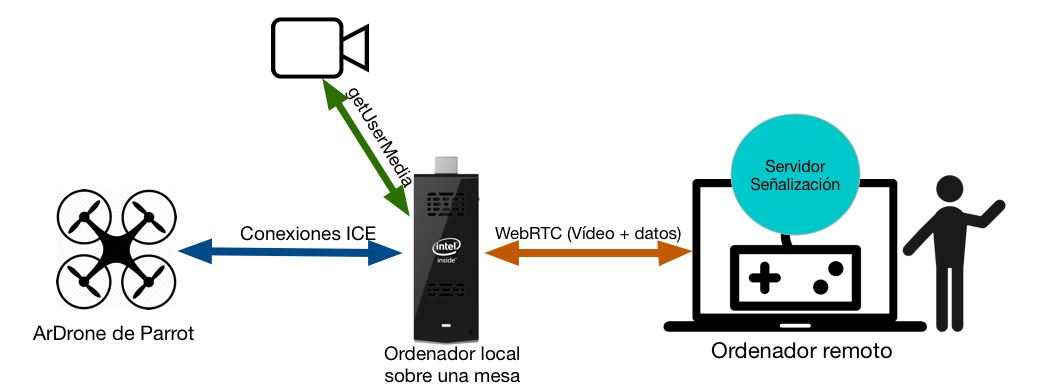
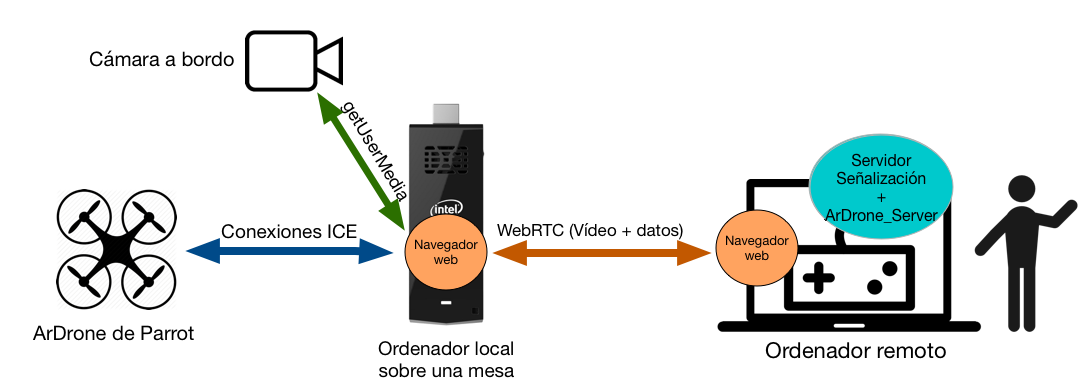
Update

Changed region(s): [[0.0308, 0.0308, 1.0, 0.9846], [0.6769, 0.8308, 0.8923, 0.9231], [0.0308, 0.8308, 0.1846, 0.8923]]

diff --git a/Memoria/5-experimentos.tex b/Memoria/5-experimentos.tex
@@ -9,22 +9,23 @@ Una vez desarrollado el proyecto y satisfaciendo todos los objetivos marcados se
 \begin{figure}[h!]
 \centering
 \includegraphics[width=0.9\textwidth]{experimento1}
-\caption{Esquema del experimento con el simulador gazebo.}
+\caption{Experimento con el simulador Gazebo y un ordenador remoto.}
 \label{fig:esquemaexperimento1}
 \end{figure}
 
-Para realizar este experimento asemejándose de la manera más realista al experimento final con el drone real se ha utilizado un \emph{Intel Compute Stick}\footnote{\url{http://www.intel.com/content/www/us/en/compute-stick/compute-stick-product-brief.html}} como par local, encargado de conectarse a las interfaces ICE que nos proporciona el plugin ArDrone desarrollado por JdeRobot para el simulador Gazebo. Este ordenador está compuesto por un procesador Intel Atom que corre Ubuntu 14.04 LTS como sistema operativo. El simulador Gazebo se ha ejecutado en un portátil auxiliar y utilizaremos otro equipo portátil como par remoto desde el que teleoperaremos el drone además de ejecutar el servidor de señalización. La figura \ref{fig:esquemaexperimento1} muestra el esquema del montaje de este experimento. \\
+Para realizar este experimento de la manera más realista al experimento final con el drone real se ha utilizado un \emph{Intel Compute Stick}\footnote{\url{http://www.intel.com/content/www/us/en/compute-stick/compute-stick-product-brief.html}} como par local. El navegador en ese \emph{computer stick} es el encargado de conectarse a las interfaces ICE que nos proporciona el plugin ArDrone desarrollado por JdeRobot para el simulador Gazebo. Este ordenador está compuesto por un procesador Intel Atom que corre Ubuntu 14.04 LTS como sistema operativo. El simulador Gazebo se ha ejecutado en un portátil auxiliar y utilizaremos otro equipo portátil como par remoto desde el que teleoperaremos el drone además de ejecutar el servidor de señalización. La figura \ref{fig:esquemaexperimento1} muestra el esquema del montaje de este experimento. \\
 
-Los resultados de este experimento han sido muy positivos, el control y manejo del drone ha sido de manera fluida y sin realizar ningún tipo de movimiento extraño producido por algún tipo de mal-funcionamiento del código. El manejo se ha realizado tanto con los \emph{joysticks} virtuales como con el mando. Puedes ver un fotograma del vídeo\footnote{\url{http://jderobot.org/Irodmar-tfg#WebRTC_on_a_drone_working_with_Gazebo5}} del experimento en la figura \ref{fig:experimentogazebo}.\\
+Los resultados de este experimento han sido muy positivos, el control y manejo del drone han sido de manera fluida y sin realizar ningún movimiento extraño producido por algún tipo de mal funcionamiento del código. El manejo se ha realizado tanto con los \emph{joysticks} virtuales como con el mando. Se puede ver un fotograma del vídeo\footnote{\url{http://jderobot.org/Irodmar-tfg#WebRTC_on_a_drone_working_with_Gazebo5}} del experimento en la figura \ref{fig:experimentogazebo}.\\
 
 \begin{figure}[h!]
 \centering
 \includegraphics[width=0.9\textwidth]{experimentogazebo}
-\caption{Experimento con el simulador gazebo.}
+\caption{Experimento con el simulador Gazebo.}
 \label{fig:experimentogazebo}
 \end{figure}
 
 En la siguiente figura (\ref{fig:secexp1}) se puede observar la secuencia de movimiento del drone durante el experimento.\\
+
 \newpage
 \begin{figure}[h!]
 \centering
@@ -39,11 +40,10 @@ En la siguiente figura (\ref{fig:secexp1}) se puede observar la secuencia de mov
     \begin{subfigure}[]{47mm}
     \includegraphics[width=47mm]{sec_exp1_3}
   \end{subfigure}
-    \caption{Secuencia de movimiento del experimento con Gazebo.}
+    \caption{Secuencia de movimiento del drone dentro de Gazebo.}
   \label{fig:secexp1}
 \end{figure}
 
-Una vez superado este experimento se ha realizado el siguiente, consistiendo en realizar pruebas con el drone real.\\
 
 \section{Vuelo del drone real}
 
@@ -89,7 +89,7 @@ La figura \ref{fig:experimentodronereal1} muestra la realización de este experi
 Esta prueba también ha sido un éxito, por lo que nos marcamos el siguiente experimento con el \emph{computer stick} y la cámara a bordo del drone. Este experimento la configuración es la misma que en el anterior, pero el manejo del drone con la aplicación será más realista ya que tenemos la cámara en primera persona.\\
 
 
-La siguiente prueba realizada ha consistido en colocar a bordo del drone la cámara, el \emph{computer stick}, el cuál actuará como par local, estableciendo la conexión con el drone y accediendo a la cámara. El drone tiene una conexion USB de salida pero la potencia no es suficiente para hacer funcionar el \emph{computer stick}. Por este motivo se ha tenido que colocar a bordo una pila la cual hará las veces de fuente de alimentación. Por otro lado tenemos un ordenador el cuál actúa como par remoto desde el que teleoperaremos el drone y además se ha utilizado para ejecutar tanto el servidor de señalización como el servidor \emph{ardrone\_server}. La figura \ref{fig:esquemaexperimentoabordo} muestra el esquema de la configuración del experimento.\\
+La segunda prueba realizada ha consistido en colocar a bordo del drone la cámara, el \emph{computer stick}, el cuál actuará como par local, estableciendo la conexión con el drone y accediendo a la cámara. El drone tiene una conexion USB de salida pero la potencia no es suficiente para hacer funcionar el \emph{computer stick}. Por este motivo se ha tenido que colocar a bordo una pila adicional la cual hará las veces de fuente de alimentación. Por otro lado tenemos un ordenador el cuál actúa como par remoto desde el que teleoperaremos el drone y además se ha utilizado para ejecutar tanto el servidor de señalización como el servidor \emph{ardrone\_server}. La figura \ref{fig:esquemaexperimentoabordo} muestra el esquema de la configuración del experimento.\\
 
 
 \begin{figure}[h!]
@@ -100,7 +100,7 @@ La siguiente prueba realizada ha consistido en colocar a bordo del drone la cám
 \end{figure}
 
 
-En la figura \ref{fig:elementosabordo} se muestra la configuración de todos los elementos que hemos colocado a bordo del drone. Como se puede observar también hemos incluido un hub USB ya que es necesario al disponer el \emph{computer stick} de un único puerto USB y necesitar al menos dos, uno para la cámara y otro para el ratón en el momento que configuramos el navegador.\\
+En la figura \ref{fig:elementosabordo} se muestra la configuración de todos los elementos que hemos colocado a bordo del drone. Como se puede observar también hemos incluido un hub USB ya que es necesario al disponer el \emph{computer stick} de un único puerto USB y necesitar al menos dos, uno para la cámara y otro para el ratón en el momento que configuramos el navegador. Puede ver el montaje final en este vídeo\footnote{\url{http://jderobot.org/Irodmar-tfg#Experiment_Setup}} de la mediawiki.\\
 
 \begin{figure}[h!]
 \centering
@@ -110,23 +110,41 @@ En la figura \ref{fig:elementosabordo} se muestra la configuración de todos los
 \end{figure}
 
 
-Este experimento ha sido fallido únicamente por las capacidades de vuelo que nos ofrece el drone. Entre los dispositivos que hemos colocado a bordo superamos la carga máxima de pago que permite este cuadricóptero. En lo que al funcionamiento de la aplicación se refiere ha funcionado perfectamente ya que en el par remoto obteníamos las imágenes y datos de vuelo procedentes del drone, y al ejecutar la orden de despegue el cuadricóptero ha intentado levantar el vuelo sin conseguirlo.\\
+Este experimento ha sido fallido, únicamente por las capacidades de vuelo que nos ofrece el drone. Entre los dispositivos que hemos colocado a bordo superamos la carga máxima de pago que permite este cuadricóptero. En lo que al funcionamiento de la aplicación se refiere ha funcionado perfectamente ya que en el par remoto obteníamos las imágenes y datos de vuelo procedentes del drone, y al ejecutar la orden de despegue el cuadricóptero ha intentado levantar el vuelo sin conseguirlo.\\
 
 \begin{figure}[h!]
 \centering
-\includegraphics[width=0.8\textwidth]{experimento_abordo}
-\caption{Realización del experimento.}
+\includegraphics[width=0.7\textwidth]{experimento_abordo}
+\caption{ArDrone no levanta el vuelo por exceso de peso.}
 \label{fig:experimentoabordo}
 \end{figure}
 
-La figura \ref{fig:experimentoabordo} es un fotográma del vídeo que se grabó durante el experimento. En ella se ve al drone intentando levantar el vuelo. Este vídeo se puede ver completo en el siguiente enlace\footnote{\url{http://jderobot.org/Irodmar-tfg#Attemp_of_flying}}. En este otro enlace\footnote{\url{http://jderobot.org/Irodmar-tfg#Experiment_Setup}} se muestra la configuración del drone realizada previa a la realización del experimento. Para comprobar que el desarrollo funciona se optó por realizar otra prueba de vuelo en la que se cogía con las manos el drone y se le movía para observar que tanto la cámara a bordo cómo los relojes de vuelo variaban en el navegador remoto. Este vídeo puede verse en este\footnote{\url{http://jderobot.org/Irodmar-tfg#Testing_the_development}} enlace.\\
+La figura \ref{fig:experimentoabordo} es un fotográma del vídeo\footnote{\url{http://jderobot.org/Irodmar-tfg#Attemp_of_flying}} que se grabó durante el experimento. En ella se ve al drone intentando levantar el vuelo. Para comprobar que el desarrollo funciona se optó por realizar otra prueba de vuelo en la que se cogía con las manos el drone y se le movía para observar que tanto la cámara a bordo cómo los relojes de vuelo variaban en el navegador remoto. La figura \ref{fig:pruebaexperimentoabordo} muestra un fotograma del vídeo\footnote{\url{http://jderobot.org/Irodmar-tfg#Testing_the_development}} en el que se realizan estas comprobaciones.\\
 
+\begin{figure}[h!]
+\centering
+\includegraphics[width=0.7\textwidth]{pruebas_experimento_abordo}
+\caption{Comprobación del funcionamiento de la aplicación.}
+\label{fig:pruebaexperimentoabordo}
+\end{figure}
 
 \section{Vuelos con multidispositivos}
 
-Como tercer y último experimento hemos probado a volar el drone utilizando dispositivos móviles. WebRTC tiene soporte para dispositivos móviles y los elementos de control los hemos desarrollado también para dispositivos táctiles, podemos utilizarlos como par remoto, par local o ambos. Al igual que el experimento anterior se ha realizado en dos pasos, primero sin colocar el dispositivo a bordo del drone para confirmar su correcto funcionamiento y posteriormente repitiéndolo con el dispositivo a bordo. Realizar experimentos con dispositivos móviles implica la necesidad de la utilización de un ordenador de apoyo que será el que ejecute tanto el servidor de señalización para WebRTC cómo \emph{ardrone\_server}.\\
+Como tercer y último experimento hemos probado a volar el drone utilizando dispositivos móviles. WebRTC tiene soporte para dispositivos móviles y los elementos de control los hemos desarrollado también para dispositivos táctiles, podemos utilizarlos como par remoto, par local o ambos. Al igual que el experimento anterior se ha realizado en dos pasos. Primero sin colocar el dispositivo a bordo del drone para confirmar su correcto funcionamiento y posteriormente repitiéndolo con el dispositivo a bordo. Realizar experimentos con dispositivos móviles implica la necesidad de la utilización de un ordenador de apoyo que será el que ejecute tanto el servidor de señalización para WebRTC cómo \texttt{ardrone\_server}.\\
 
-Como primer experimento se ha utilizado un ordenador portátil como par local y un móvil como par remoto desde el que gobernamos los movimientos del drone. En la figura \ref{fig:experimentodronemultidispositivo1} se puede apreciar un instante del experimento cuyo vídeo se encuentra en la mediawiki\footnote{\url{http://jderobot.org/Irodmar-tfg\#Flying\_with\_a\_mobile\_like\_Remote\_PC}}.\\
+
+\begin{figure}[h!]
+\centering
+\includegraphics[width=0.8\textwidth]{esquema_experimento_multidispositivo_1}
+\caption{Esquema del experimento con móvil como par remoto.}
+\label{fig:esquemaexperimentomultidispositivo}
+\end{figure}
+
+
+Como primer experimento se ha utilizado un ordenador portátil como par local, encargado por un lado de estableciendo la conexion con el drone y de acceder a la cámara, en este caso la incorporada en el portátil, y por otro lado de correr los servidores de señalización y \texttt{ardrone\_server}. Como par remoto para teleoperar el drone se ha utilizado un teléfono móvil. En la figura \ref{fig:esquemaexperimentomultidispositivo} se detalla el esquema de este experimento.\\
+
+
+En la figura \ref{fig:experimentodronemultidispositivo1} se puede apreciar un instante del experimento cuyo vídeo se encuentra en la mediawiki\footnote{\url{http://jderobot.org/Irodmar-tfg\#Flying\_with\_a\_mobile\_like\_Remote\_PC}}.\\
 
 \begin{figure}[h!]
 \centering
@@ -155,7 +173,17 @@ En la figura \ref{fig:secexp3} podemos ver la secuencia de movimiento del drone 
 \end{figure}
 
 
-El segundo experimento es a la inversa, se utiliza un ordenador como par remoto y un dispositivo móvil como par local, encargándose de establecer la conexion con el drone. En este caso las imágenes que se envían son de una de las dos cámaras del móvil, la delantera o la trasera, pudiendo elegir cualquiera de las dos. En este experimento el móvil lo colocamos sobre la mesa mirando hacia la posición en la que se encuentra en drone, por lo que en la pantalla del ordenador remoto le veremos moviéndose. La figura \ref{fig:experimentodronemultidispositivo2} muestra un momento del experimento que esta recogido en un vídeo en la mediawiki\footnote{\url{http://jderobot.org/Irodmar-tfg#Flying_with_a_mobile_like_Droner_PC}}.\\
+\newpage
+El segundo experimento (figura \ref{fig:esquemaexperimentomultidispositivo2}) es a la inversa, se utiliza un ordenador portátil como par remoto y un teléfono móvil como par local.
+
+\begin{figure}[h!]
+\centering
+\includegraphics[width=0.8\textwidth]{experimento_multidispositivo2}
+\caption{Esquema del experimento con móvil como par local.}
+\label{fig:esquemaexperimentomultidispositivo2}
+\end{figure}
+
+En este configuración el ordenador portátil se utiliza también para ejecutar los servidores de señalización y \texttt{ardrone\_server}. El móvil se usa como par local, encargándose de establecer la conexion con el drone. En este caso las imágenes que se envían son de una de las dos cámaras del móvil, la delantera o la trasera, pudiendo elegir cualquiera de las dos. En este experimento el móvil lo colocamos sobre la mesa mirando hacia la posición en la que se encuentra en drone, por lo que en la pantalla del ordenador remoto le veremos moviéndose. La figura \ref{fig:experimentodronemultidispositivo2} muestra un momento del experimento que esta recogido en un vídeo en la mediawiki\footnote{\url{http://jderobot.org/Irodmar-tfg#Flying_with_a_mobile_like_Droner_PC}}. En la figura \ref{fig:secexp4} se muestra una secuencia del vuelo realizado.\\
 
 \begin{figure}[h!]
 \centering
@@ -182,5 +210,5 @@ El segundo experimento es a la inversa, se utiliza un ordenador como par remoto 
   \label{fig:secexp4}
 \end{figure}
 
-Se ha desestimado la realizacion del experimento en el que situamos el móvil a bordo del drone debido a la dificultad de colocarlo en posición vertical para que la cámara apunte desde la parte delantera del drone. La única posición dónde podría colocarse es en un extremo del cuadricoptero lo que causaría una descompensacion de cargas dando lugar a que el drone no pudiese estabilizar el vuelo.\\
+Se ha desestimado la realización del experimento en el que situamos el móvil a bordo del drone debido a la dificultad de colocarlo en posición vertical para que la cámara apunte desde la parte delantera del drone. La única posición dónde podría colocarse es en un extremo del cuadricóptero lo que causaría una descompensación de cargas dando lugar a que el drone no pudiese estabilizar el vuelo.\\
 
